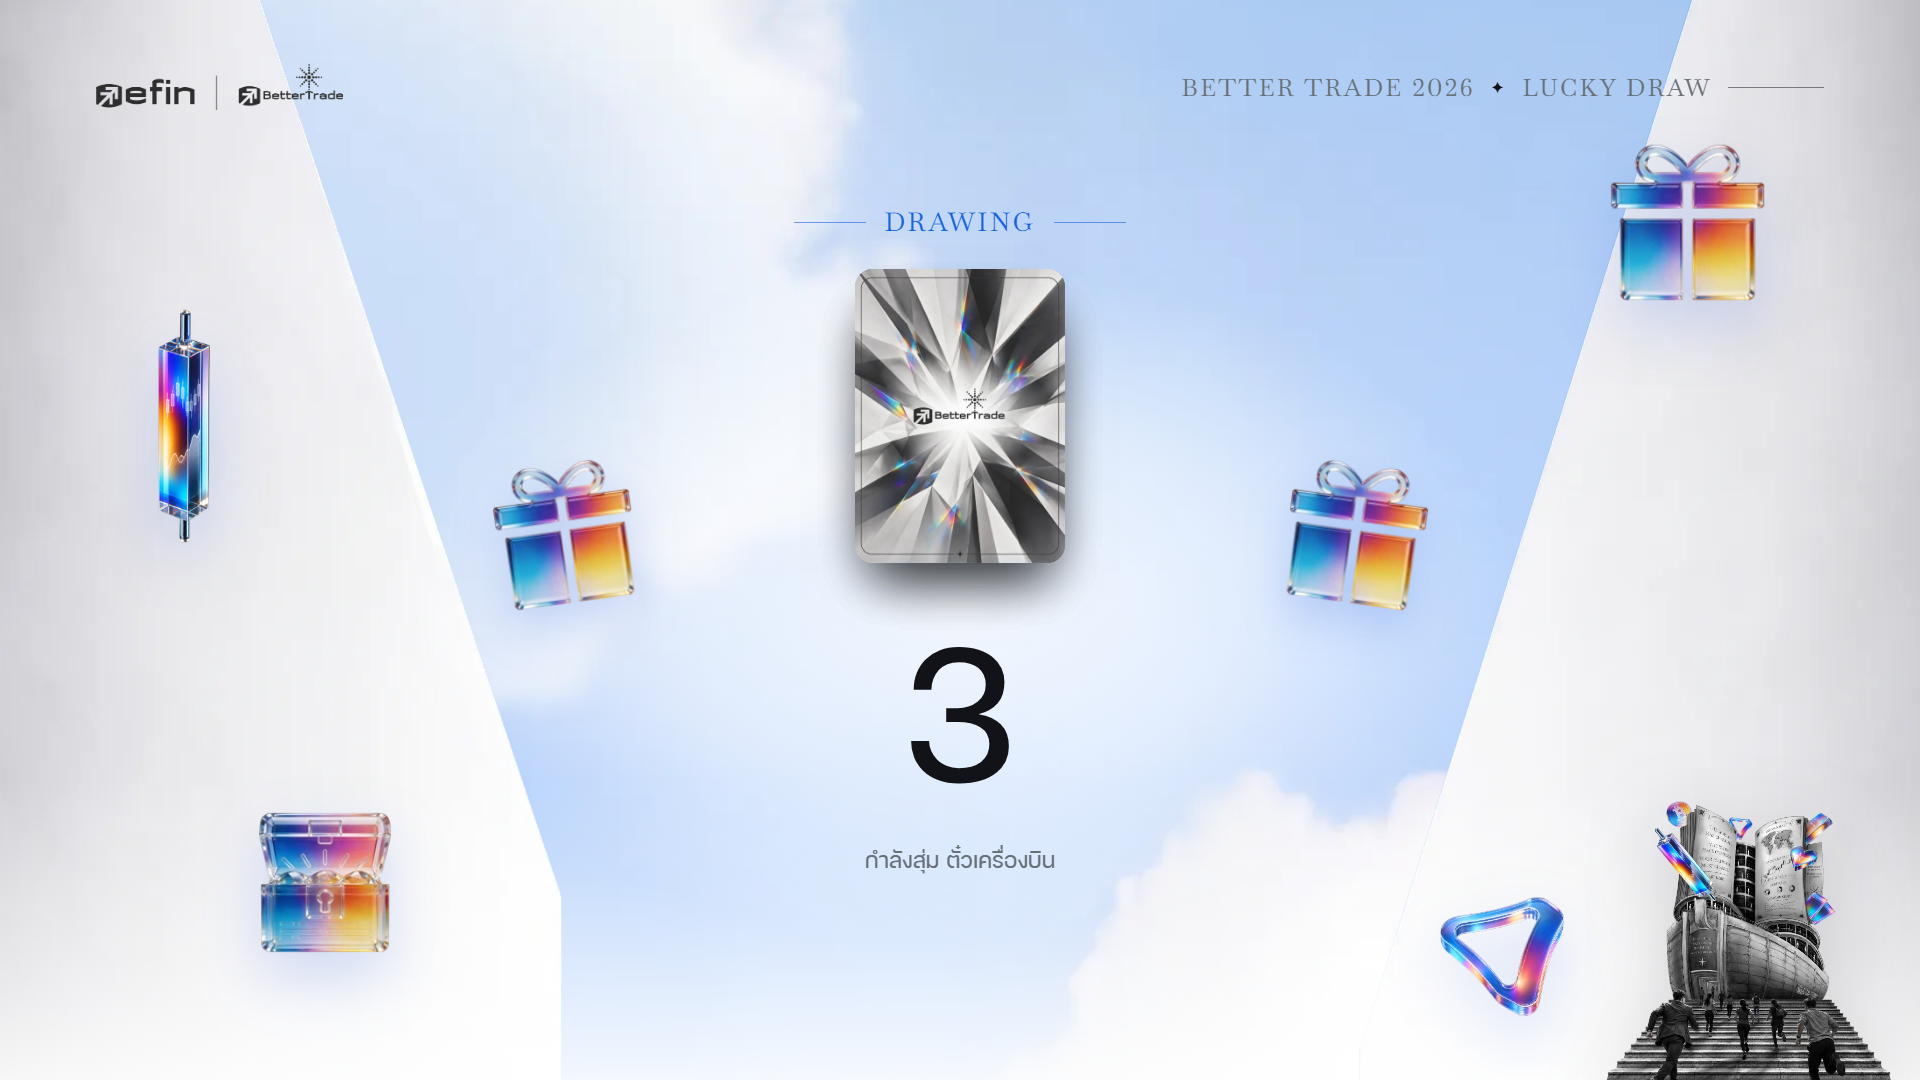
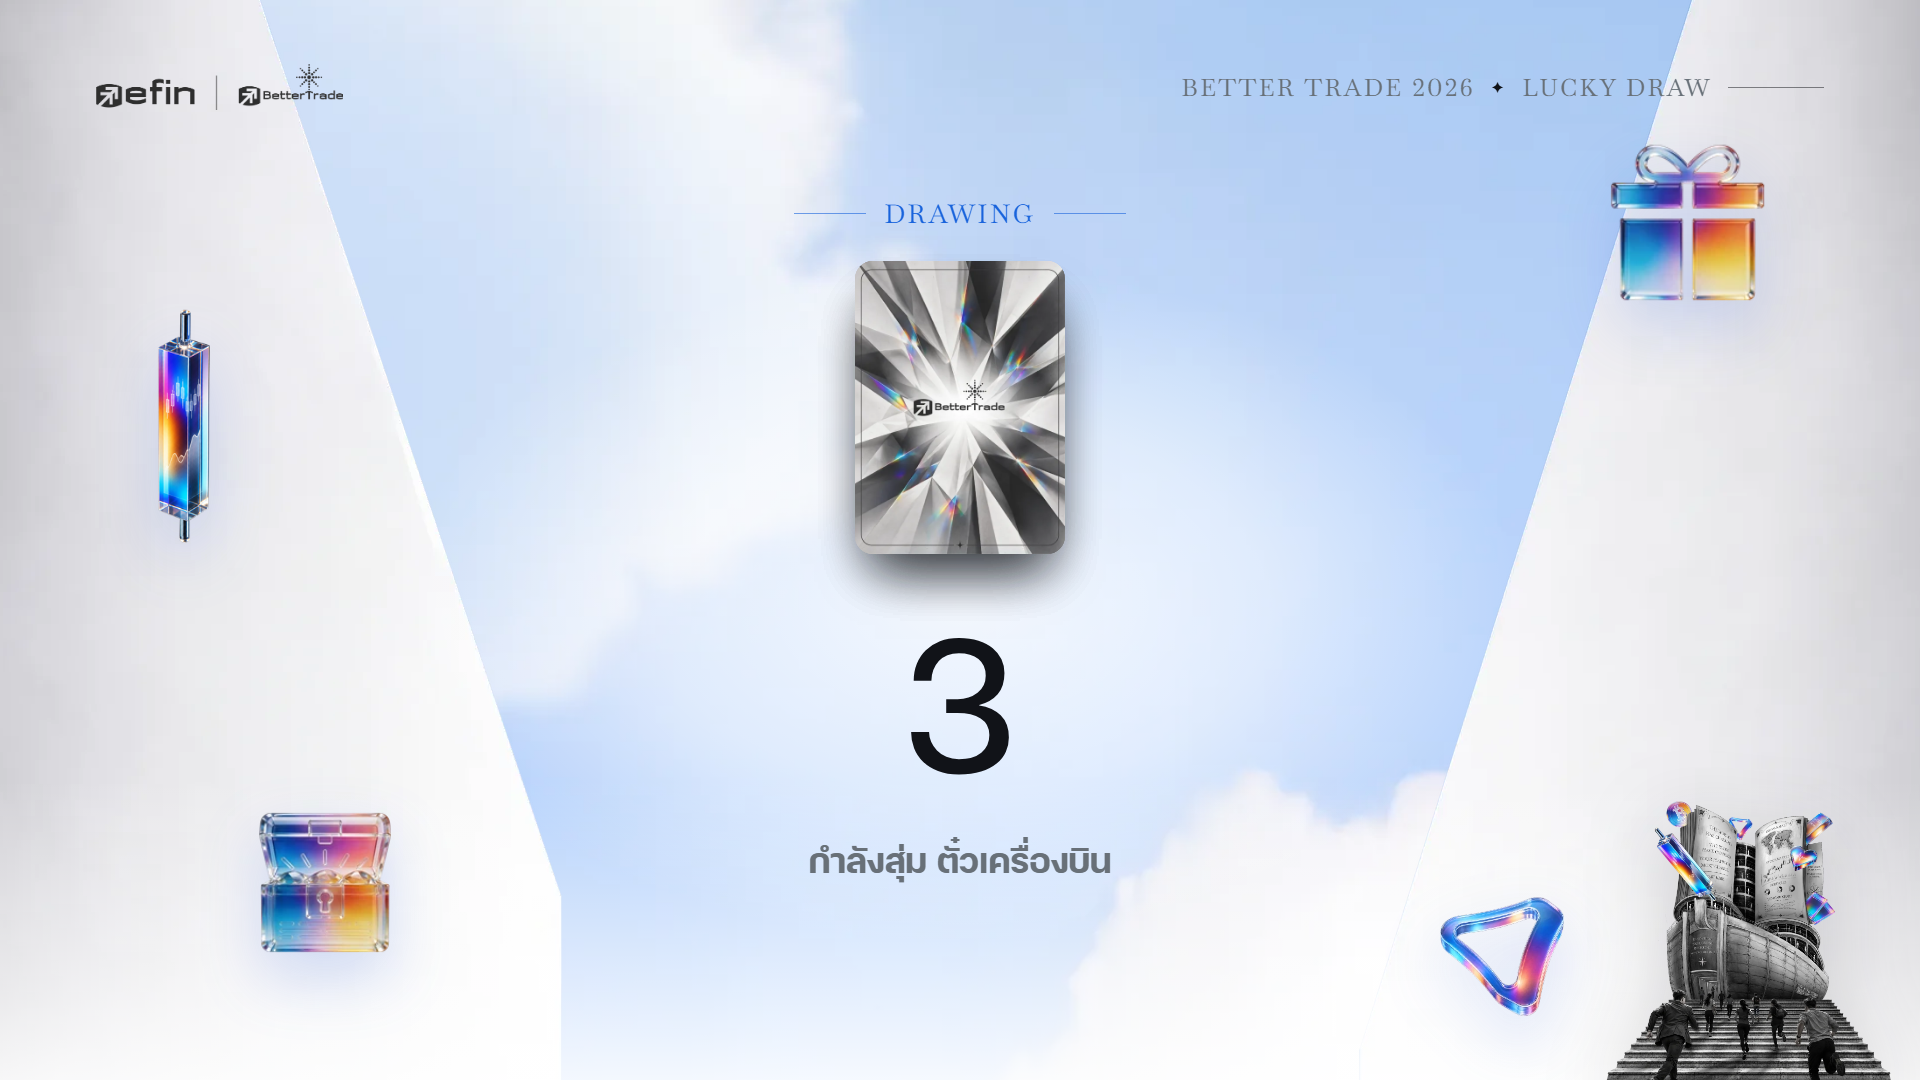
Move prize gift to the wall, unify secondary text style
- Prize scene: no centre gift, wall gift stays top right, content lifted
- Drawing A: remove gift boxes beside the deck
- Secondary lines (prize count, drawing subtitle, ticket type, empty board) use the idle subtitle style: 46px/700
- Regenerate previews

diff --git a/show-screen.html b/show-screen.html
@@ -49,9 +49,7 @@
   .el.candle{left:60px;top:300px;width:250px;animation-delay:-1s}
   .el.chest{left:240px;bottom:112px;width:170px;animation-delay:-3s}
   .el.efin{right:356px;bottom:64px;width:124px;animation-delay:-2s}
-  .el.gift{right:138px;top:128px;width:190px;animation-delay:-1.5s;transition:opacity .6s}
-  /* the prize scene has its own big gift above the title, so the wall one steps aside there */
-  #stage[data-scene="prize"] .el.gift{opacity:0}
+  .el.gift{right:138px;top:128px;width:190px;animation-delay:-1.5s}
   @keyframes bob{50%{transform:translateY(-18px) rotate(-3deg)}}
 
   .top{position:absolute;left:96px;right:96px;top:64px;display:flex;justify-content:space-between;align-items:center;z-index:5}
@@ -76,10 +74,10 @@
 
   /* prize */
   .prize h2,.idle h2,.board h2{font-weight:600;font-size:150px;line-height:1.05;letter-spacing:-.01em}
+  .prize{padding-bottom:90px}   /* optical centre sits a little above the middle */
   .prize h2{margin:20px 0 22px}
-  .prize-gift{width:200px;height:200px;margin-bottom:6px;filter:drop-shadow(0 22px 26px rgba(63,111,224,.28));animation:bob 5s ease-in-out infinite}
-  .prize .qty{font-size:34px;color:var(--ink-2)}
-  .prize .qty b{font-weight:500;font-size:54px;color:var(--ink);margin:0 6px}
+  .prize .qty{font-size:46px;font-weight:700;color:var(--ink-2)}
+  .prize .qty b{font-weight:700;font-size:64px;color:var(--ink);margin:0 8px}
   /* same DNA as the winners-board tile: white glass, hairline border, bold ink value, blue-ink label */
   .rule{margin-top:48px;display:inline-flex;align-items:stretch;gap:18px}
   .rule div{padding:22px 44px;text-align:left;background:rgba(255,255,255,.82);border:1px solid var(--line);backdrop-filter:blur(6px)}
@@ -103,16 +101,11 @@
   .reel-band{position:absolute;left:0;right:0;top:240px;height:120px;border-block:2px solid var(--blue);background:var(--blue-tint)}
   .reel-in{position:absolute;left:0;right:0;top:0;will-change:transform}
   .reel-in div{position:absolute;left:0;right:0;height:120px;line-height:120px;font-size:100px;font-weight:700;white-space:nowrap;color:var(--ink);text-align:center;will-change:transform,opacity}
-  /* A: a gift box on each side of the shuffling deck (outside its +-120px sweep), tilted apart */
-  .dv-A{position:relative}
-  .flank{position:absolute;top:210px;width:170px;height:170px;filter:drop-shadow(0 18px 22px rgba(63,111,224,.25));animation:bob 6s ease-in-out infinite}
-  .flank.l{left:calc(50% - 480px);rotate:-8deg}
-  .flank.r{left:calc(50% + 310px);animation-delay:-3s;rotate:8deg}
   .dv-B .count{font-size:120px;min-height:120px}
 
   .count.tick{animation:tick .9s cubic-bezier(.2,.8,.2,1)}
   @keyframes tick{from{transform:scale(1.35);opacity:0;color:var(--blue-ink)}to{transform:none;opacity:1}}
-  .drawing .sub{font-size:30px;color:var(--ink-2);margin-top:4px}
+  .drawing .sub{font-size:46px;font-weight:700;color:var(--ink-2);margin-top:6px}
 
   /* redraw interstitial */
   .redraw h2{font-weight:600;font-size:110px;margin-top:24px}
@@ -127,7 +120,7 @@
   /* font size is fitted to the width in JS so long names stay on one line */
   .who h1{font-weight:600;font-size:170px;line-height:1.15;margin:6px 0 0;letter-spacing:-.01em;white-space:nowrap}
   .who .pline{margin-top:18px;font-size:120px;font-weight:700;line-height:1.15;color:var(--blue-ink)}
-  .who .meta{margin-top:24px;font-size:28px;color:var(--ink-3)}
+  .who .meta{margin-top:24px;font-size:46px;font-weight:700;color:var(--ink-2)}
 
   /* board */
   .board h2{margin:8px 0 26px}
@@ -138,7 +131,7 @@
   .tile > div{min-width:0;flex:1}
   .tile b{display:block;font-size:40px;font-weight:600;line-height:1.2;white-space:nowrap;overflow:hidden;text-overflow:ellipsis}
   .tile small{display:block;font-size:30px;font-weight:500;color:var(--blue-ink);margin-top:2px;white-space:nowrap;overflow:hidden;text-overflow:ellipsis}
-  .board .empty{font-size:34px;color:var(--ink-3)}
+  .board .empty{font-size:46px;font-weight:700;color:var(--ink-2)}
   /* B: same grid, a big order number instead of the character card */
   .tile .rank{flex:none;width:84px;text-align:center;font-size:58px;font-weight:600;line-height:1;color:var(--blue-ink)}
   .grid.ranked .tile{padding:16px 18px 16px 10px}
@@ -211,7 +204,6 @@
   </section>
 
   <section class="scene prize" data-scene="prize">
-    <img class="prize-gift" src="prize-assets/img/gift.webp" alt="">
     <div class="k">Next Prize</div>
     <h2 id="pName"></h2>
     <div class="qty">รางวัลนี้มีทั้งหมด <b id="pQty"></b> รางวัล</div>
@@ -226,8 +218,6 @@
 
     <!-- A: shuffling deck of back cards -->
     <div class="dv dv-A">
-      <img class="flank l" src="prize-assets/img/gift.webp" alt="">
-      <img class="flank r" src="prize-assets/img/gift.webp" alt="">
       <div class="deck">
         <img src="prize-assets/cards/back.webp" alt="" style="--i:0">
         <img src="prize-assets/cards/back.webp" alt="" style="--i:1">
